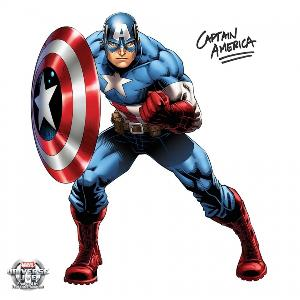
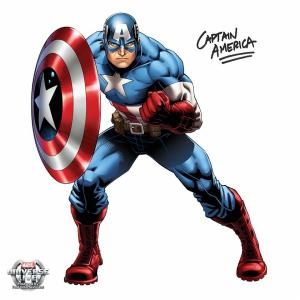
Calculo Zoom Out Linear

diff --git a/src/imagemanage/Imagem.java b/src/imagemanage/Imagem.java
@@ -464,6 +464,10 @@ public class Imagem {
                 
                 for (int y = 0; y < this.inputImage.getHeight()-1; y+=2) {
                     
+                    
+                    int tBlue = 0;
+                    int tGreen = 0;
+                    int tRed = 0;
                     for(int y2 = 0; y2 < 2; y2++){
                         for(int x2 = 0; x2 < 2; x2++){
                             
@@ -472,11 +476,19 @@ public class Imagem {
                             int blue  = 0x0000ff & rgb;
                             int green = 0x0000ff & (rgb >> 8);
                             int red   = 0x0000ff & (rgb >> 16);
-
-                            this.outputImage.setRGB(x/2, y/2, blue | (green << 8) | (red << 16));
-                     
+                                                        
+                            if(tBlue == 0){ tBlue = blue; }
+                            else{ tBlue += blue; }
+                                                        
+                            if(tGreen == 0){ tGreen = green; }
+                            else{ tGreen += green; }
+                                                        
+                            if(tRed == 0){ tRed = red; }
+                            else{ tRed += red; }                            
+                            
                         }
                     }
+                    this.outputImage.setRGB(x/2, y/2, tBlue/4 | (tGreen/4 << 8) | (tRed/4 << 16)); 
                 }
             }
             
